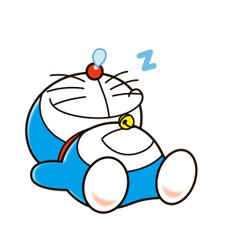
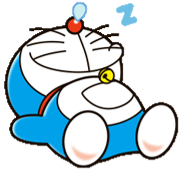
Change UI: chatbot
- chatbot: change css and image

diff --git a/src/components/Chatbot.js b/src/components/Chatbot.js
@@ -1,24 +1,24 @@
 import { Link } from "react-router-dom";
-import Button from '@material-ui/core/Button';
-import { makeStyles } from '@material-ui/core/styles';
-import List from '@material-ui/core/List';
-import ListItem from '@material-ui/core/ListItem';
-import ListItemIcon from '@material-ui/core/ListItemIcon';
-import ListItemText from '@material-ui/core/ListItemText';
-import Divider from '@material-ui/core/Divider';
-import InboxIcon from '@material-ui/icons/Inbox';
-import DraftsIcon from '@material-ui/icons/Drafts';
+import Button from "@material-ui/core/Button";
+import { makeStyles } from "@material-ui/core/styles";
+import List from "@material-ui/core/List";
+import ListItem from "@material-ui/core/ListItem";
+import ListItemIcon from "@material-ui/core/ListItemIcon";
+import ListItemText from "@material-ui/core/ListItemText";
+import Divider from "@material-ui/core/Divider";
+import InboxIcon from "@material-ui/icons/Inbox";
+import DraftsIcon from "@material-ui/icons/Drafts";
 import { HashRouter as Route } from "react-router-dom";
 import { useEffect, useState } from "react";
 import chatbotImg from "../images/doraemon.png";
 import chatbotImg2 from "../images/doraemon2.png";
 import "./Chatbot.css";
-import { dbService,firebaseInstance } from "../fbase";
+import { dbService, firebaseInstance } from "../fbase";
 import { AddAlertOutlined } from "@material-ui/icons";
 
 const useStyles = makeStyles((theme) => ({
   root: {
-    width: '100%',
+    width: "100%",
     maxWidth: 500,
     backgroundColor: theme.palette.background.paper,
   },
@@ -26,76 +26,119 @@ const useStyles = makeStyles((theme) => ({
 
 const ListItemLink = (props) => {
   return <ListItem button component="a" {...props} />;
-}
+};
 
 const Chatbot = () => {
-    const subjectList = ['데이터과학', '인간과 컴퓨터 상호작용', '최신컴퓨터특강'];
-    const [checkNew, setcheckNew] = useState(false);
-    const [NewNotice, setNewNotice] = useState(false); // 기본은 false! 나는 테스트 해보려고 true로 한거야
-    const [newNoticeData, setNewNoticeData] = useState();
+  const subjectList = [
+    "데이터과학",
+    "인간과 컴퓨터 상호작용",
+    "최신컴퓨터특강",
+  ];
+  const [checkNew, setcheckNew] = useState(false);
+  const [NewNotice, setNewNotice] = useState(false); // 기본은 false! 나는 테스트 해보려고 true로 한거야
+  const [newNoticeData, setNewNoticeData] = useState();
 
-    const clickChatbot = () => {
-      setcheckNew(true);  
-      setNewNotice(false);
-    }
+  const clickChatbot = () => {
+    setcheckNew(true);
+    setNewNotice(false);
+  };
 
-    const closeChatBot = () => {
-      setcheckNew(false);  
-      setNewNotice(true);
-    }
+  const closeChatBot = () => {
+    setcheckNew(false);
+    setNewNotice(true);
+  };
 
-    const checkNewNotice = () => {
-      setcheckNew(false);  
-      setNewNotice(false);
-    }
+  const checkNewNotice = () => {
+    setcheckNew(false);
+    setNewNotice(false);
+  };
 
-    useEffect(async () => {
-      const newData = [];
-      subjectList.forEach((subject) => {
-        dbService.collection(subject).where("check", "==", false).get()
+  useEffect(async () => {
+    const newData = [];
+    subjectList.forEach((subject) => {
+      dbService
+        .collection(subject)
+        .where("check", "==", false)
+        .get()
         .then((querySnapshot) => {
-          if(!NewNotice && !querySnapshot.empty) setNewNotice(true);
+          if (!NewNotice && !querySnapshot.empty) setNewNotice(true);
           querySnapshot.forEach((doc) => {
-              newData[doc.id] = doc.data();
-              newData[doc.id]['subject'] = subject;
+            newData[doc.id] = doc.data();
+            newData[doc.id]["subject"] = subject;
           });
-        })
-      });
-      setNewNoticeData(newData);
-    }, []);
-  
-    return (
-      <>
-        <div className="chatbot">
-          {/* console.log(newNoticeData) /* DEBUG */}
-          {(!checkNew && NewNotice) && <Button className='newButton' onClick={clickChatbot} variant="outlined" color="primary">새로운 공지가 있어요!</Button>}
-          {checkNew && 
-          <div className={Chatbot.root}>
-          <List component="nav" aria-label="main mailbox folders">
-            { Object.entries(newNoticeData).map((data) => (
-              <ListItemLink href={`#class?${data[1].subject}?post=${data[0]}` /* _target 지움 */ }> 
-                <ListItemIcon>
-                  <DraftsIcon />
-                </ListItemIcon>
-                { data[1].subject.length + data[1].title.length > 20  
-                  ? <ListItemText primary={`[${data[1].subject.concat('] ', data[1].title).slice(0,20)}..`} />
-                  : <ListItemText primary={`[${data[1].subject}] ${data[1].title}`} /> }
-              </ListItemLink>
-            )) }   
-          </List>
-          </div>
-          }
-          {/*checkNew && <Button className='newButton' onClick={checkNewNotice} variant="outlined" color="primary">모두 확인했습니다!</Button>*/}
-          {checkNew && <Button className='newButton' onClick={closeChatBot} variant="outlined" color="primary">챗봇 닫기</Button>}
-          <div className="img">
-          {(!checkNew && !NewNotice) ? <img src={chatbotImg2} className="doraemon_img" /> : <img src={chatbotImg} className="doraemon_img" />}
-          </div>
-        </div>
+        });
+    });
+    setNewNoticeData(newData);
+  }, []);
 
-      </>
-    );
+  return (
+    <>
+      <div className="chatbot">
+        {/* console.log(newNoticeData) /* DEBUG */}
+        {!checkNew && NewNotice && (
+          <Button
+            className="newButton openBtn"
+            onClick={clickChatbot}
+            variant="outlined"
+            color="primary"
+          >
+            새로운 공지가 있어요!
+          </Button>
+        )}
+        {checkNew && (
+          <div className={Chatbot.root} id="chatList">
+            <div className="listHeader">
+              <p>📌 공지사항</p>
+            </div>
+            <div className="navList">
+              <List component="nav" aria-label="main mailbox folders">
+                {Object.entries(newNoticeData).map((data) => (
+                  <ListItemLink
+                    href={
+                      `#class?${data[1].subject}?post=${data[0]}` /* _target 지움 */
+                    }
+                  >
+                    <ListItemIcon>
+                      <DraftsIcon />
+                    </ListItemIcon>
+                    {data[1].subject.length + data[1].title.length > 20 ? (
+                      <ListItemText
+                        primary={`[${data[1].subject
+                          .concat("] ", data[1].title)
+                          .slice(0, 20)}..`}
+                      />
+                    ) : (
+                      <ListItemText
+                        primary={`[${data[1].subject}] ${data[1].title}`}
+                      />
+                    )}
+                  </ListItemLink>
+                ))}
+              </List>
+            </div>
+            <Button
+              className="newButton"
+              onClick={closeChatBot}
+              variant="outlined"
+              color="primary"
+            >
+              CLOSE
+            </Button>
+          </div>
+        )}
+        {/*checkNew && <Button className='newButton' onClick={checkNewNotice} variant="outlined" color="primary">모두 확인했습니다!</Button>*/}
+        {!checkNew && (
+          <div className="img">
+            {!NewNotice ? (
+              <img src={chatbotImg2} className="doraemon_img nil" />
+            ) : (
+              <img src={chatbotImg} className="doraemon_img" />
+            )}
+          </div>
+        )}
+      </div>
+    </>
+  );
 };
-  
 
 export default Chatbot;
-  

diff --git a/src/components/Chatbot.css b/src/components/Chatbot.css
@@ -1,21 +1,71 @@
-.chatbot{
-    position:absolute;
-    bottom:30px;
-    right: 15px;
-    /* width:170px;
-    height:170px;    */
-    background: white;
+.chatbot {
+  position: absolute;
+  bottom: 30px;
+  right: 15px;
+  text-align: center;
+}
+
+.chatbot #chatList {
+  background: #f3f5fc;
+  border-radius: 1em;
+  padding: 20px;
+  padding-top: 10px;
+  box-shadow: 0 0 20px 1px rgba(222, 222, 222, 30);
+  margin-bottom: 6px;
+  margin-right: 14px;
+  vertical-align: middle;
+}
+
+.chatbot .listHeader p {
+  font-size: 20px;
+  font-weight: bold;
+  text-align: left;
+  margin-left: 20px;
+  margin-bottom: 40px;
+}
+
+.chatbot .navList {
+  background: white;
+  border-radius: 10px;
+  padding: 10px 20px;
+  box-shadow: 0 0 20px 1px rgba(235, 235, 235, 30);
+}
+
+.chatbot .newButton {
+  background: white;
+  border: 1px solid rgb(222, 222, 222);
+  display: inline-block;
+  margin-top: 14px;
+}
+
+.chatbot .openBtn {
+  position: absolute;
+  right: 130px;
+  bottom: 40px;
+  width: 200px;
+  height: 50px;
+  background: white;
+  box-shadow: 0 0 20px 1px rgba(235, 235, 235, 30);
 }
 
 .new {
-    background-color:orange;
-    /* padding: 0px; */
+  background-color: orange;
 }
 
 .chatbot > .img {
-    /* width:170px;
-    height:170px;  
-    margin-top : 10px; */
-    width: 100px;
-    height: 100px;
+  width: 80px;
+  height: 80px;
+  border: 1px solid rgb(222, 222, 222);
+  padding: 8px 5px 5px 8px;
+  border-radius: 90%;
+  margin-top: 10px;
+  box-shadow: 0 0 20px 1px rgba(235, 235, 235, 30);
+  position: absolute;
+  right: 25px;
+  bottom: 20px;
+}
+
+.nil {
+  width: 70px;
+  height: 70px;
 }
